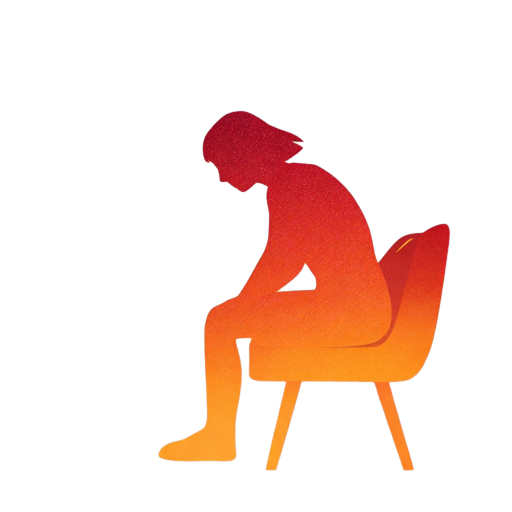
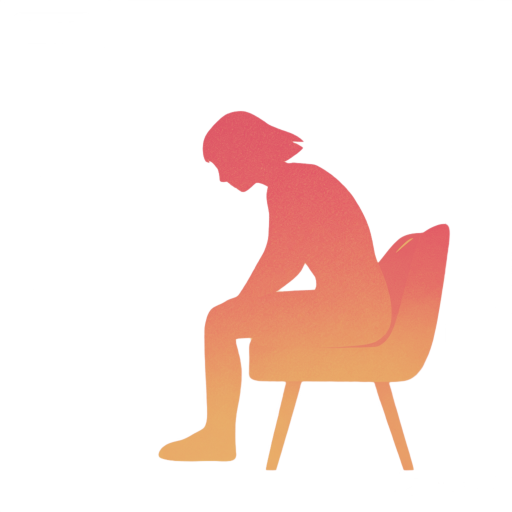
彻底修正女孩图偏红：滤镜烤入PNG替代CSS近似
根因：Figma女孩图IMAGE填充带滤镜(contrast-0.6/saturation-0.25/exposure+0.16/
shadows+0.85)，效果是逐通道非线性映射(R锁定/GB提升压缩)，CSS filter无法表达，
近似值始终差10+色阶导致偏红。

解法：从Figma直出真值反解逐通道线性映射(gain+bias)，烤入girl-sit.png并保留
alpha通道，CSS去掉filter。图仍透明、opacity仍可控(3-1=88%/3-2=20%)。

效果：剪影核心色差16→1.7，ref[204,123,90] vs mine[203,122,87]，
step3 RMSE 0.096→0.092。

Changed region(s): [[0.3125, 0.2188, 0.875, 0.9375]]

diff --git a/mindstation/answer-book/style.css b/mindstation/answer-book/style.css
@@ -1027,10 +1027,9 @@ body[data-guide-trans="black"] .gstep { transition: none; }
 .g-illus--boat-reflect { position: absolute; left: 757px; top: 243px;
                    width: 241px; height: 241px; pointer-events: none;
                    transform: rotate(180deg); opacity: .33; z-index: 2; }  /* 5322:3 倒影 */
-.g-illus--sit    { width: 449px; height: 449px; z-index: 9;
-                   /* Figma 层级：女孩图为该帧最顶层（盖在光晕/文字之上）。
-                      还原 IMAGE 填充滤镜 contrast-0.6 saturation-0.25 exposure+0.16 shadows+0.85 */
-                   filter: contrast(.42) saturate(.65) brightness(1.18) hue-rotate(-4deg); }
+.g-illus--sit    { width: 449px; height: 449px; z-index: 9; }
+                   /* Figma 层级：女孩图为该帧最顶层。滤镜(contrast-0.6/saturation-0.25/
+                      exposure+0.16/shadows+0.85)已按真值反解烤入PNG，保留alpha，CSS不再加filter */
 .g-illus--sit-a  { left: 123px; top: 4px;  opacity: .88; }                    /* 5322:14 shot3-1 opacity-88 */
 .g-illus--sit-b  { left: 110px; top: 0;    opacity: .20; }                    /* 5322:52 shot3-2 opacity-20 */
 .g-illus--rudder { left: 833px; top: -208px; width: 556px; height: 556px; opacity: .73; }  /* 5323:66 opacity-73 */